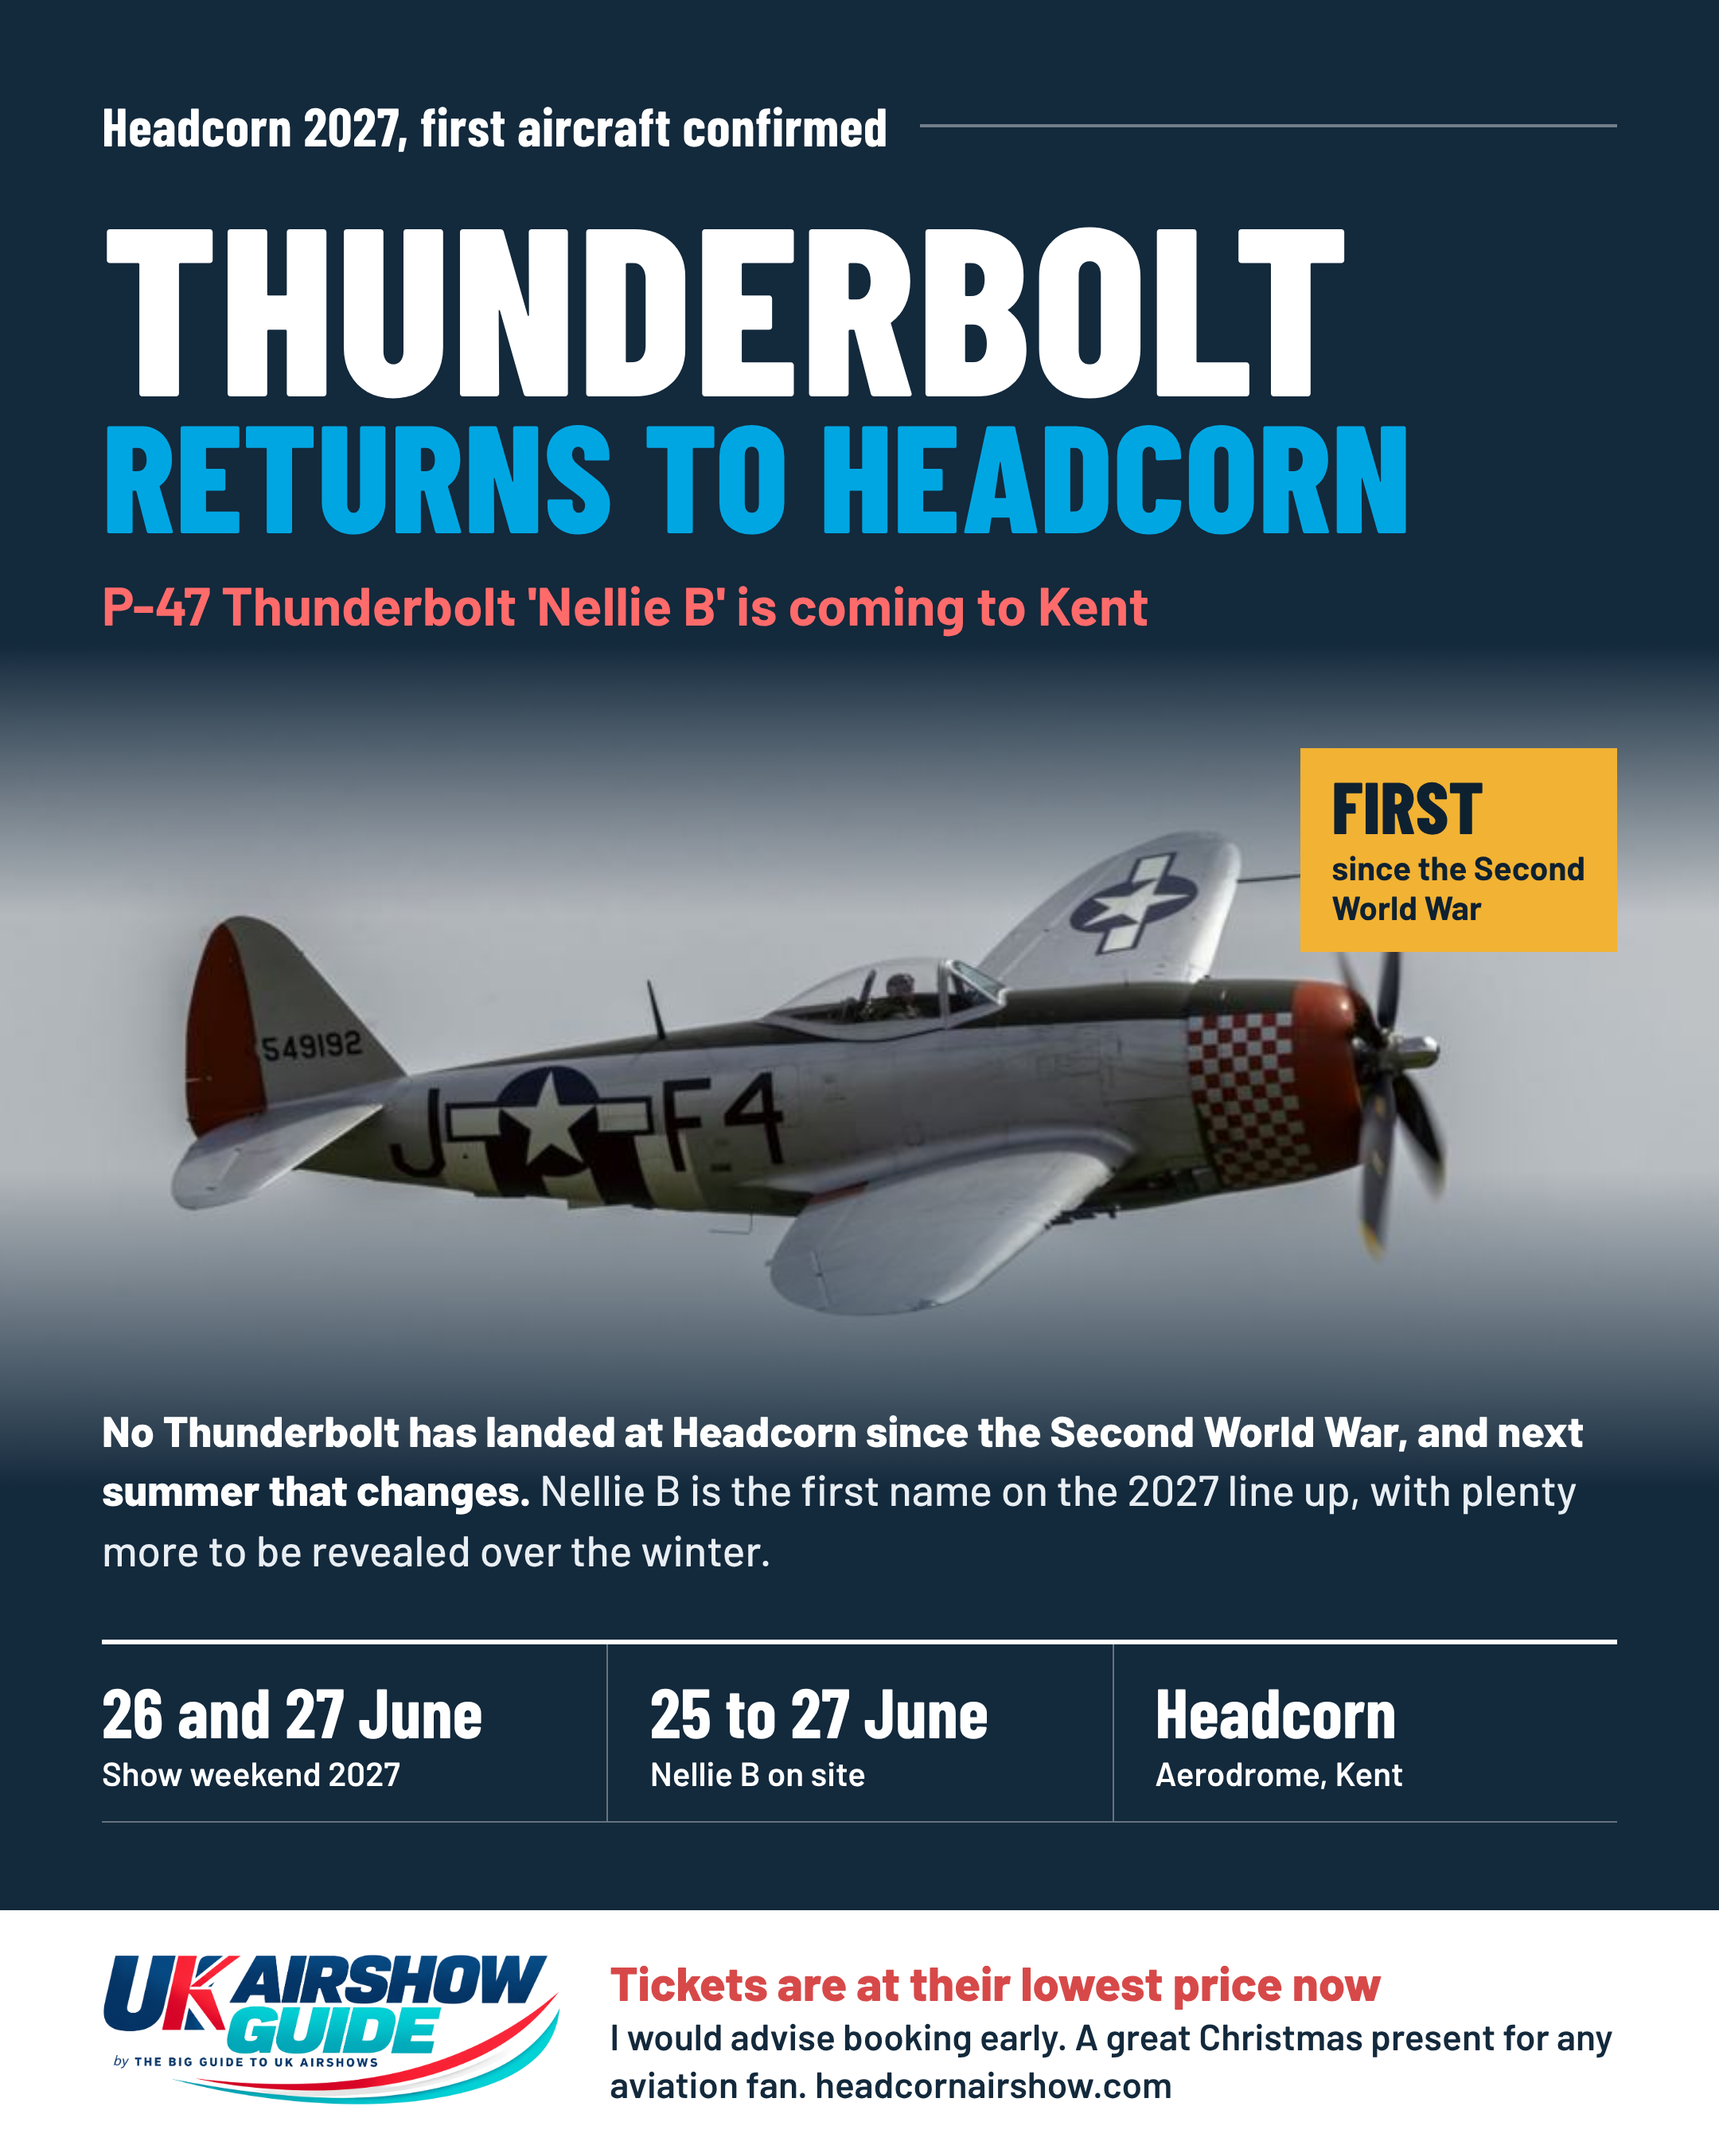
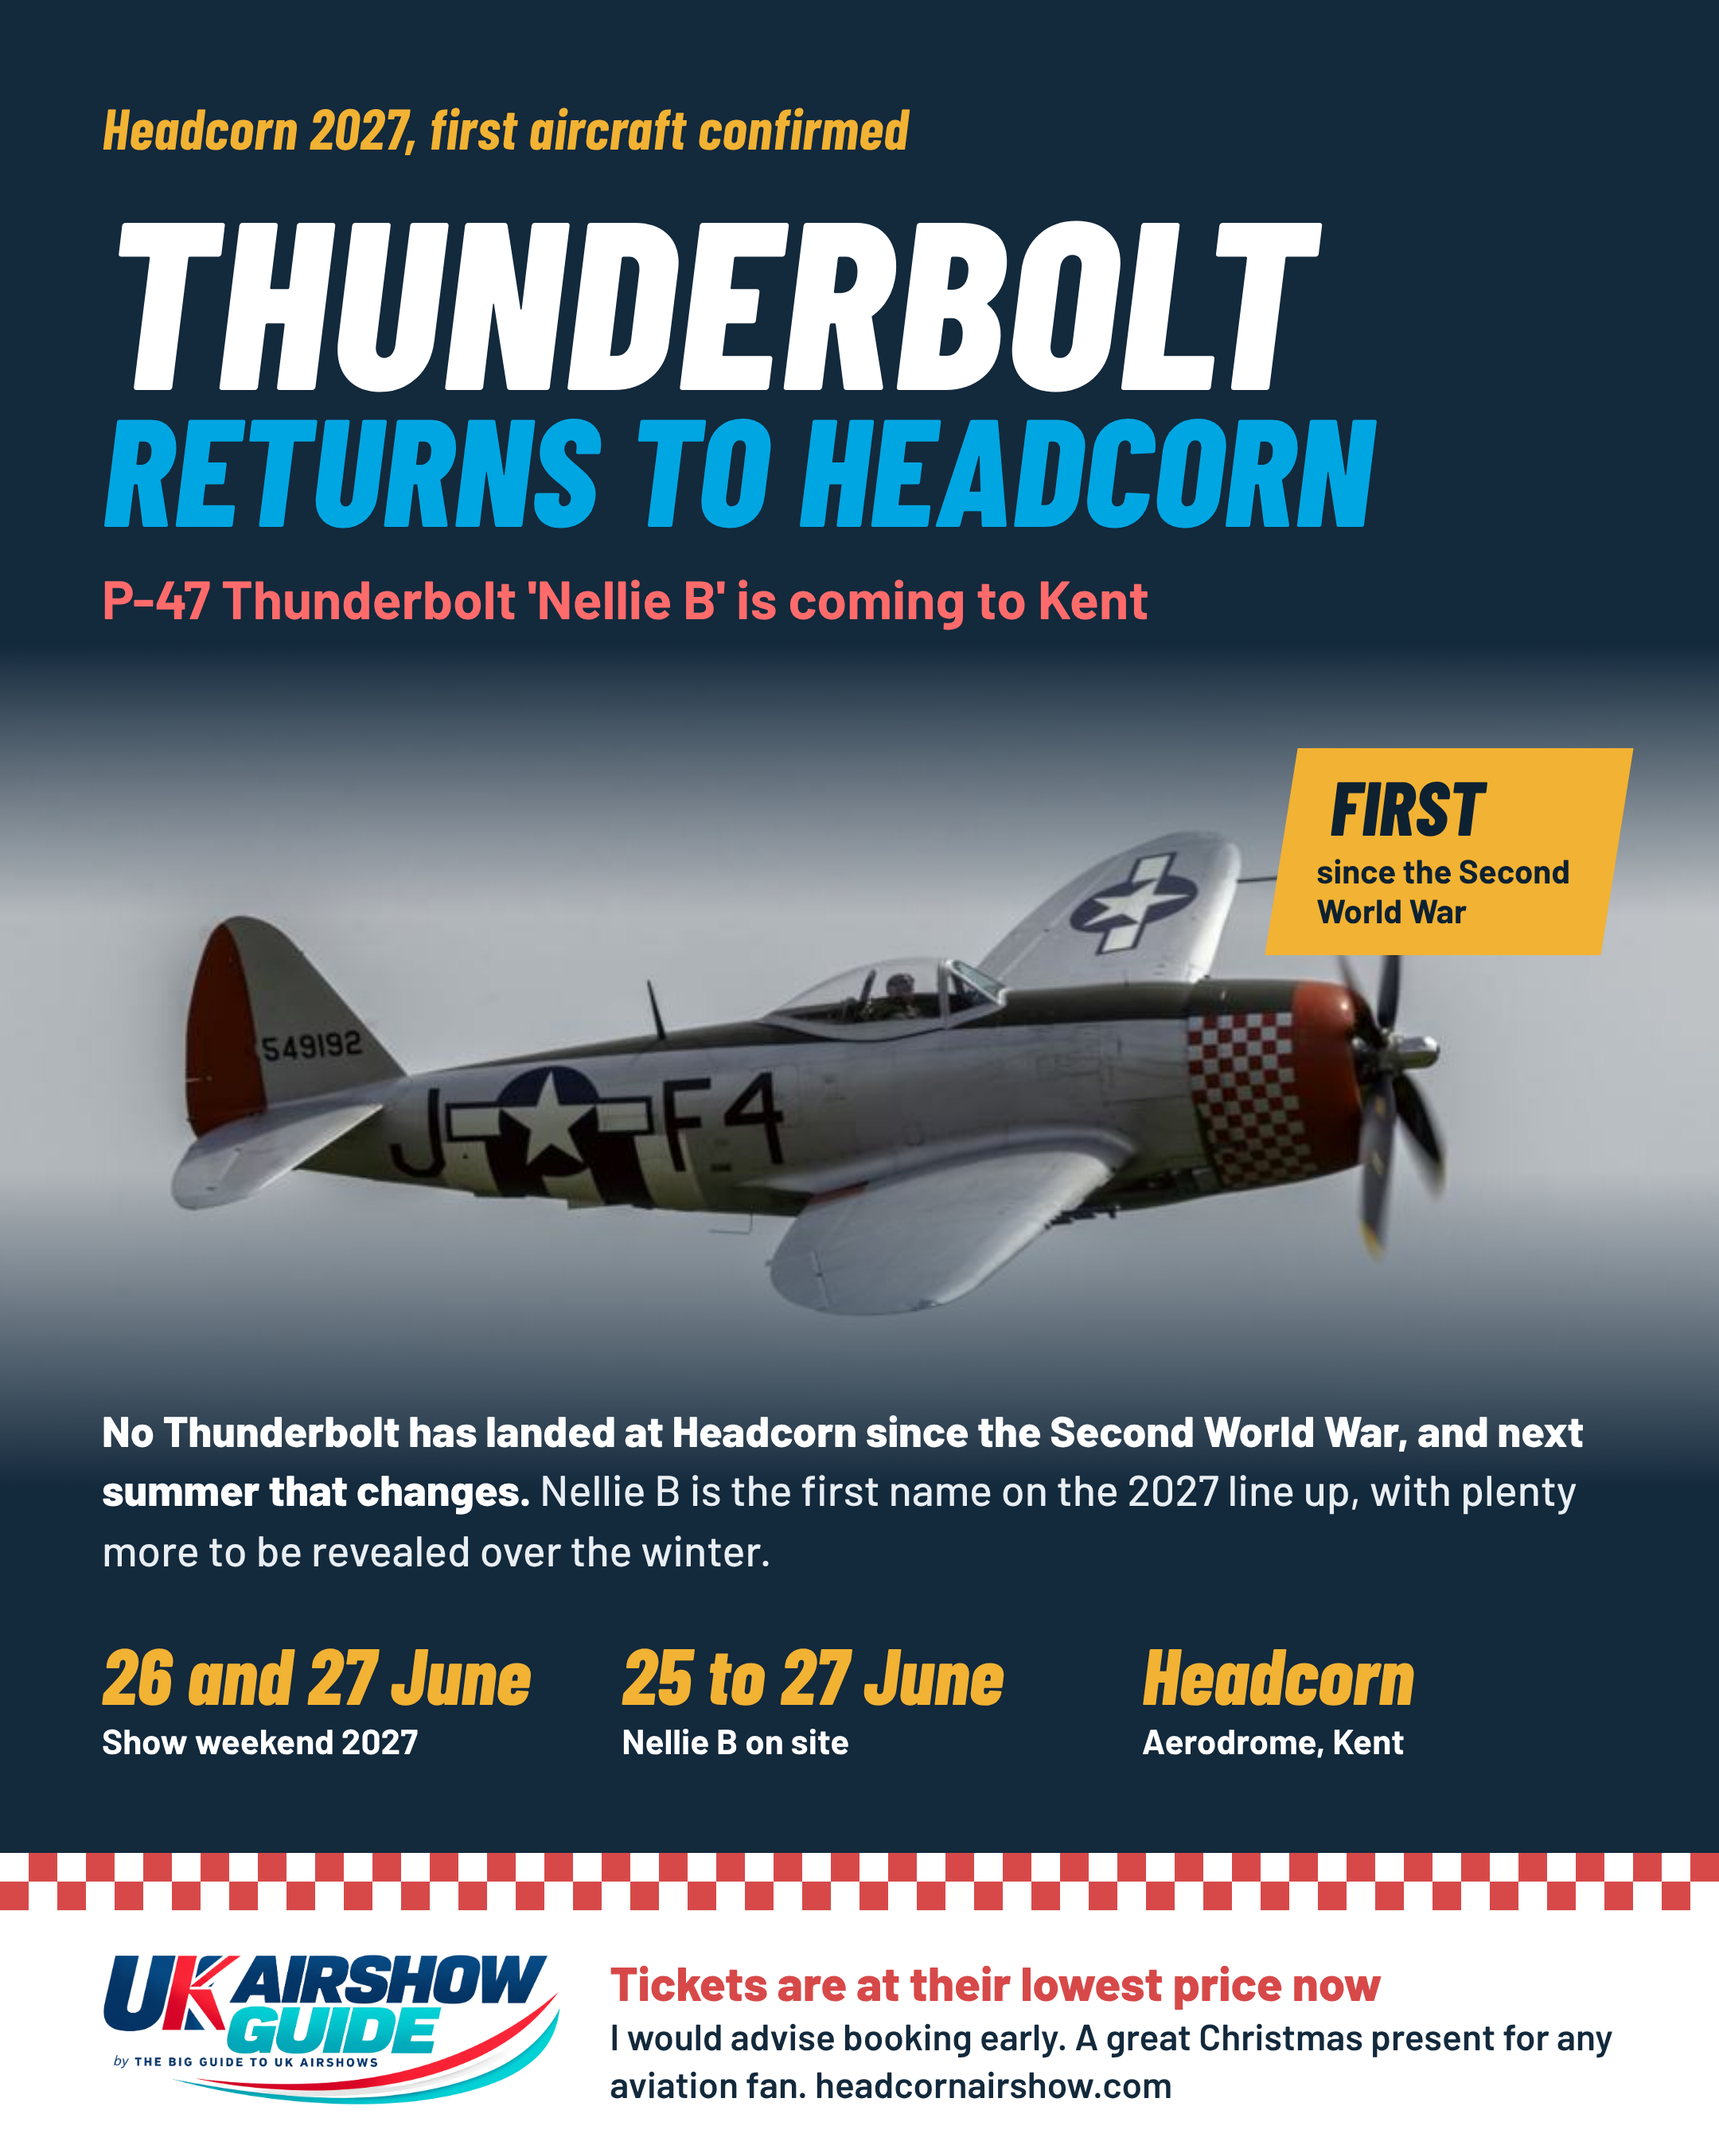
Poster: no white lines, italic title, amber dates and a chequer band from Nellie B's nose
Claude-Session: https://claude.ai/code/session_01CAsoXJe6erK8BudmSzF7Kx

diff --git a/posters/headcorn-2027-thunderbolt.html b/posters/headcorn-2027-thunderbolt.html
@@ -3,17 +3,15 @@
 <head>
 <meta charset="utf-8">
 <title>Thunderbolt at Headcorn 2027 poster</title>
-<link href="https://fonts.googleapis.com/css2?family=Barlow:wght@500;600;700;800&family=Barlow+Condensed:wght@600;700;800&display=swap" rel="stylesheet">
+<link href="https://fonts.googleapis.com/css2?family=Barlow:wght@500;600;700;800&family=Barlow+Condensed:ital,wght@0,600;0,700;0,800;1,700;1,800&display=swap" rel="stylesheet">
 <style>
   :root{--navy:#13293C;--deep:#0E2131;--sky:#00A6E2;--red:#D74949;--teal:#32B4AF;--amber:#F2B233}
   *{box-sizing:border-box;margin:0;padding:0}
   html,body{background:#ddd}
   .poster{width:1080px;height:1350px;position:relative;overflow:hidden;background:var(--navy);color:#fff;font-family:Barlow,system-ui,sans-serif}
   .top{padding:58px 64px 0;position:relative;z-index:2}
-  .tag{display:flex;align-items:center;gap:20px;font-family:'Barlow Condensed',sans-serif;font-weight:700;font-size:34px;color:#fff;letter-spacing:.3px}
-  .tag:after{content:"";flex:1;height:2px;background:rgba(255,255,255,.4)}
-  .tag em{font-style:normal;color:var(--amber)}
-  h1{font-family:'Barlow Condensed',sans-serif;font-weight:800;text-transform:uppercase;line-height:.88;margin-top:24px}
+  .tag{font-family:'Barlow Condensed',sans-serif;font-style:italic;font-weight:700;font-size:36px;color:var(--amber);letter-spacing:.3px}
+  h1{font-family:'Barlow Condensed',sans-serif;font-style:italic;font-weight:800;text-transform:uppercase;line-height:.88;margin-top:18px}
   h1 .a{display:block;font-size:150px;letter-spacing:1px}
   h1 .b{display:block;font-size:96px;color:var(--sky)}
   .sub{color:#ff6b6b;font-weight:700;font-size:34px;margin-top:20px}
@@ -21,18 +19,17 @@
   .photo:before,.photo:after{content:"";position:absolute;left:0;right:0;height:150px}
   .photo:before{top:0;height:170px;background:linear-gradient(var(--navy),rgba(19,41,60,0))}
   .photo:after{bottom:0;height:200px;background:linear-gradient(rgba(19,41,60,0),var(--navy))}
-  .stamp{position:absolute;right:64px;top:470px;z-index:3;background:var(--amber);color:var(--deep);padding:14px 20px 16px;text-align:left}
-  .stamp b{display:block;font-family:'Barlow Condensed',sans-serif;font-size:46px;line-height:.95;font-weight:800}
+  .stamp{position:absolute;right:64px;top:470px;z-index:3;background:var(--amber);color:var(--deep);padding:14px 26px 16px;transform:skewX(-9deg)}
+  .stamp>*{transform:skewX(9deg)}
+  .stamp b{display:block;font-family:'Barlow Condensed',sans-serif;font-style:italic;font-size:48px;line-height:.95;font-weight:800}
   .stamp span{display:block;font-weight:700;font-size:21px;line-height:1.2;margin-top:4px}
   .body{position:absolute;left:64px;right:64px;top:880px;z-index:2}
   .intro{font-size:27px;line-height:1.38;font-weight:500;color:#e8eef3}
   .intro strong{color:#fff;font-weight:800}
-  .facts{display:grid;grid-template-columns:1fr 1fr 1fr;margin-top:38px;border-top:3px solid #fff;border-bottom:1px solid rgba(255,255,255,.35)}
-  .fact{padding:20px 0 20px 26px}
-  .fact:first-child{padding-left:0}
-  .fact+.fact{border-left:1px solid rgba(255,255,255,.35)}
-  .fact p{font-family:'Barlow Condensed',sans-serif;font-weight:700;font-size:44px;line-height:1}
-  .fact p small{display:block;font-family:Barlow,sans-serif;font-weight:600;font-size:21px;color:#fff;margin-top:6px;white-space:nowrap}
+  .facts{display:grid;grid-template-columns:1fr 1fr 1fr;gap:28px;margin-top:34px}
+  .fact p{font-family:'Barlow Condensed',sans-serif;font-style:italic;font-weight:800;font-size:50px;line-height:1;color:var(--amber);white-space:nowrap}
+  .fact p small{display:block;font-family:Barlow,sans-serif;font-style:normal;font-weight:700;font-size:22px;color:#fff;margin-top:6px}
+  .cheq{position:absolute;left:0;right:0;bottom:150px;height:36px;z-index:2;background:repeating-conic-gradient(var(--red) 0 25%,#fff 0 50%) 0 0/36px 36px}
   .foot{position:absolute;left:0;right:0;bottom:0;height:150px;background:#fff;color:var(--navy);display:flex;align-items:center;gap:30px;padding:0 64px}
   .foot img{height:96px}
   .foot .t{flex:1;font-size:23px;line-height:1.3;font-weight:600}
@@ -59,6 +56,8 @@
       <div class="fact"><p>Headcorn<small>Aerodrome, Kent</small></p></div>
     </div>
   </div>
+
+  <div class="cheq"></div>
 
   <div class="foot">
     <img src="../brand/UK-Airshow-Guide-logo-transparent.png" alt="UK Airshow Guide">

diff --git a/posters/STYLE.md b/posters/STYLE.md
@@ -10,12 +10,15 @@ Rules for every UK Airshow Guide poster, from feedback on the Headcorn 2027 Thun
 - No tilted badges or drop shadows. A badge is a flat block of solid colour with square corners.
 - No coloured label text above facts (for example green "Show weekend" labels). Put the big fact first and a plain white line under it.
 - No decorative dots or slashes between words. Use a comma.
-- Info at the bottom works best as a printed programme strip: a solid white rule above, thin dividing lines and big condensed dates.
+- No white rule lines or dividing lines anywhere. Separate things with space and colour.
+- Info at the bottom is three plain columns: a big amber italic date or place, with a white line of text under it.
 
 ## Keep
 - Site colours: navy #13293C, sky blue #00A6E2, red #D74949, amber #F2B233.
 - Barlow and Barlow Condensed fonts.
-- Big uppercase title with the second line in sky blue, and a red subheading.
+- Big uppercase italic title (it matches the slanted logo) with the second line in sky blue, and a red subheading.
+- A flat amber badge, slanted to match the title, for the one key fact.
+- A motif taken from the aircraft itself. On the Thunderbolt poster this is the red and white chequer band above the footer, copied from Nellie B's nose.
 - White footer with the UK Airshow Guide logo.
 - Jack's own photos only, with no photo credits on the image.
 - No dashes in sentences, labels in sentence case, and advisory phrasing ("I would advise").
